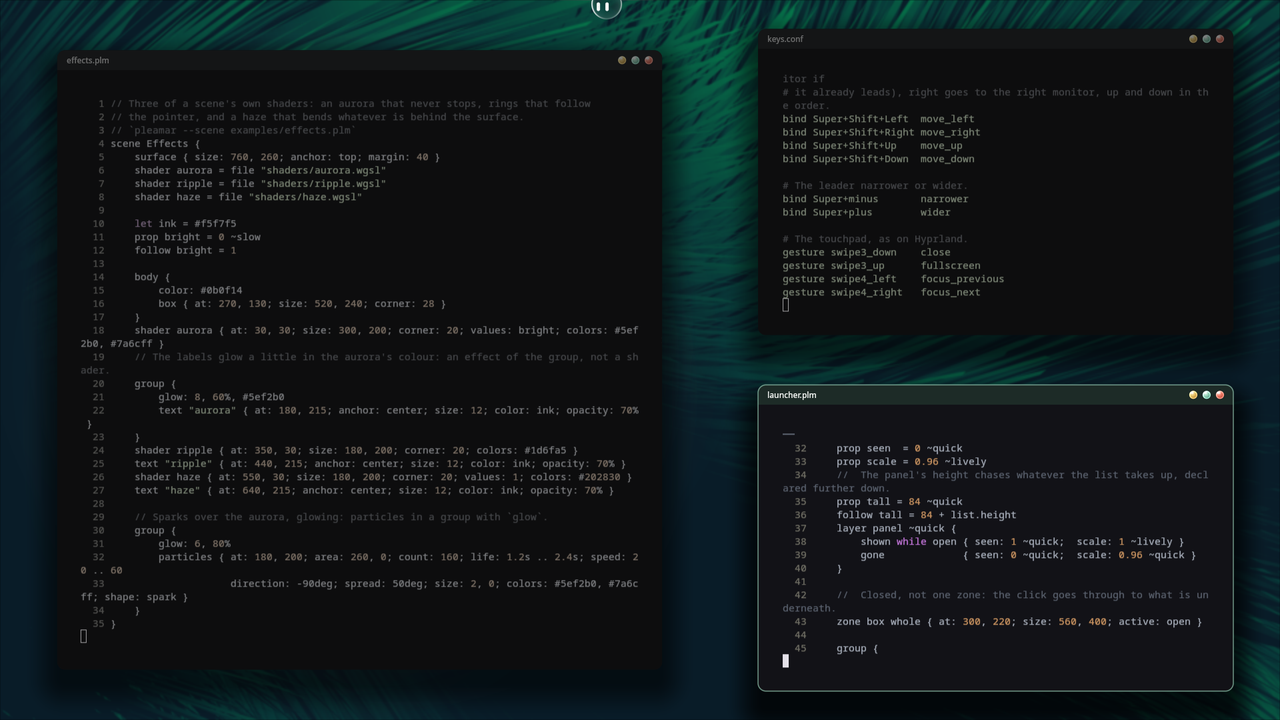
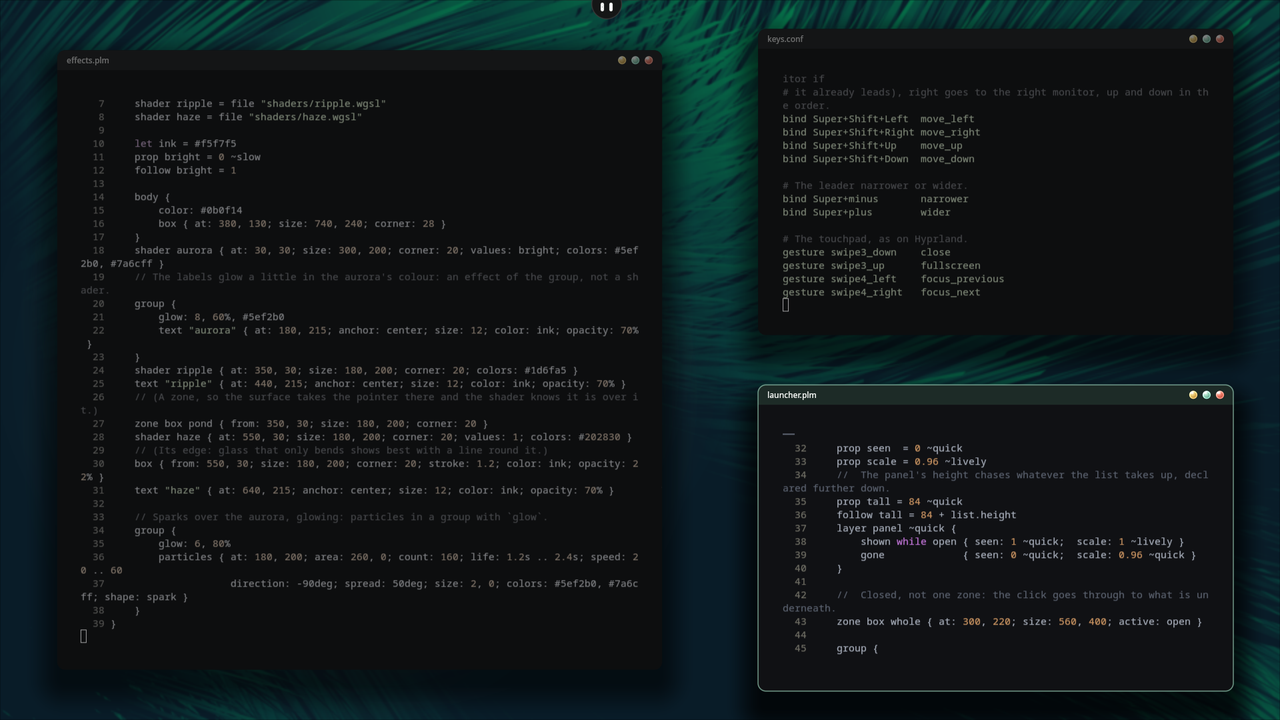
Screenshots: Marea in her classic skin, the whole effects example
Marea shows as she usually is —black, opaque—, in English. The effects
example's card now holds its three panels; the ripple has a zone so the
pointer reaches it, and the haze shows a shimmer of its own where nothing
is known of what is behind it.

diff --git a/README.md b/README.md
@@ -73,7 +73,7 @@ waits for the logic.
 
 ![Preview Effects]
 
-<sub>`examples/effects.plm`: a WGSL aurora, glowing particles, a ripple that follows the pointer.</sub>
+<sub>`examples/effects.plm`: a WGSL aurora with glowing particles, a ripple that follows the pointer, a heat haze.</sub>
 
 <br>
 <br>
